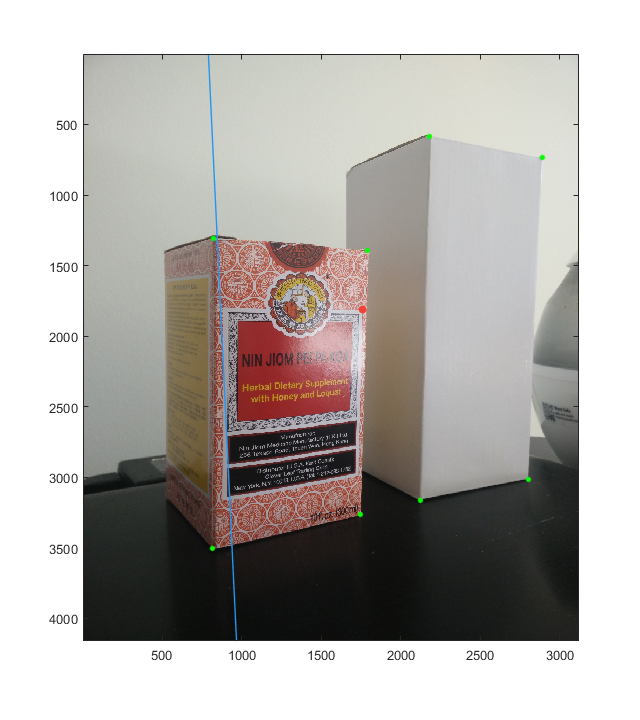
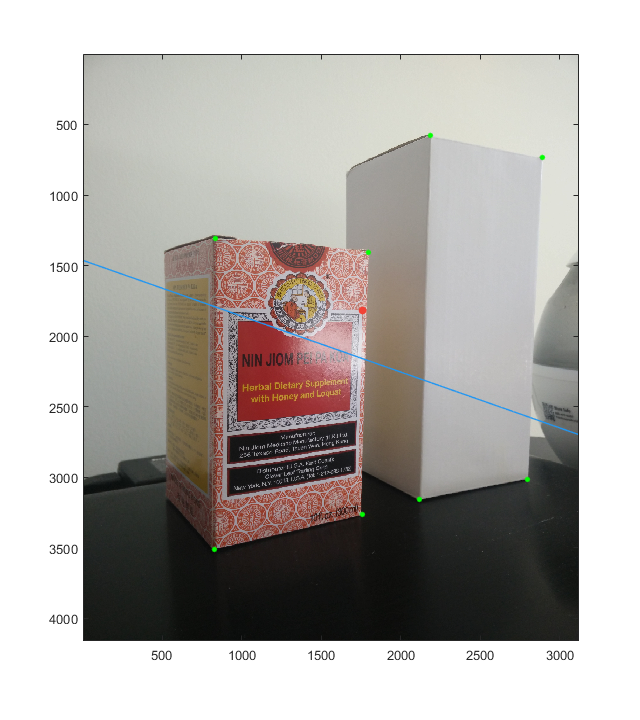
update

diff --git a/Assignment2/Assignment2a.m b/Assignment2/Assignment2a.m
@@ -11,6 +11,8 @@ figure(1);
 set(gcf, 'position',[300, 200, 640, 720]);
 imagesc(leftImage);
 % Specify a set of corresponding pixel landmark pairs in the left and right camera views.
+% [u, v] = textread('uvLeft.txt','%f,%f');
+% uvLeft = [u, v];
 uvLeft = [];
 hold on;
 for i = 1:1:n
@@ -22,9 +24,12 @@ for i = 1:1:n
     ];
 end
 hold off;
+
 figure(2);
 set(gcf, 'position',[940, 200, 640, 720]);
 imagesc(rightImage);
+% [u, v] = textread('uvRight.txt','%f,%f');
+% uvRight = [u, v];
 uvRight = [];
 hold on;
 for i = 1:1:n
@@ -36,6 +41,7 @@ for i = 1:1:n
     ];
 end
 hold off;
+
 % Calculate the F-matrix using instructions as discussed in the slides.
 P = [];
 for i = 1:1:n
@@ -54,6 +60,7 @@ F = [
     f(4), f(5), f(6);
     f(7), f(8), 1
 ];
+
 % Choose a point in the left image and calculate the epipolar line in the right image. Display the point and the line as overlays in your images.
 % Do the same for a point in the right image and epipolar line in the left image.
 figure(1);
@@ -62,7 +69,7 @@ leftPoint = ginput(1);
 plot(leftPoint(1), leftPoint(2), '.', 'MarkerSize', 20, 'Color', [0.95, 0.26, 0.21]);
 hold off;
 l = [leftPoint(1), leftPoint(2), 1] * F;
-L = l / norm([l(1), l(2)]);
+L = l;
 clear l;
 
 x = 0: 3120;
@@ -88,7 +95,7 @@ hold on;
 plot(rightPoint(1), rightPoint(2), '.', 'MarkerSize', 20, 'Color', [0.13, 0.59, 0.95]);
 hold off;
 l = F * [rightPoint(1); rightPoint(2); 1];
-L = l / norm([l(1), l(2)]);
+L = l;
 clear l;
 
 x = 0: 3120;

diff --git a/Assignment2/Assignment2b.m b/Assignment2/Assignment2b.m
@@ -35,9 +35,9 @@ for i = 1:1:7
 end
 hold off;
 
-f = 3.79;
+f = 28;
 B = 100;
-density = 1 / 900;
+density = 0.84;
 u0 = 1560;
 v0 = 2080;
 coordinate = [];
@@ -46,7 +46,7 @@ for i = 1:1:7
     v1 = uvLeft(i, 2);
     u2 = uvRight(i, 1);
     v2 = uvRight(i, 2);
-    Z = f * B / ((u1 - u2) * density);
+    Z = f * B / (abs(u1 - u2) * density);
     X = (u1 - u0) / f * Z;
     Y = (v1 - v0) / f * Z;
     coordinate = [
@@ -71,3 +71,6 @@ line([coordinate(2,1),coordinate(6,1)],[coordinate(2,2),coordinate(6,2)],[coordi
 line([coordinate(3,1),coordinate(7,1)],[coordinate(3,2),coordinate(7,2)],[coordinate(3,3),coordinate(7,3)], 'LineWidth', 1.0, 'Color', [0.13, 0.59, 0.95]);
 
 % 69 * 69 * 80
+sqrt((coordinate(1,1) - coordinate(2,1)) ^ 2 + (coordinate(1,2) - coordinate(2,2)) ^ 2 + (coordinate(1,3) - coordinate(2,3)) ^ 2)
+sqrt((coordinate(2,1) - coordinate(3,1)) ^ 2 + (coordinate(2,2) - coordinate(3,2)) ^ 2 + (coordinate(2,3) - coordinate(3,3)) ^ 2)
+sqrt((coordinate(1,1) - coordinate(5,1)) ^ 2 + (coordinate(1,2) - coordinate(5,2)) ^ 2 + (coordinate(1,3) - coordinate(5,3)) ^ 2)
